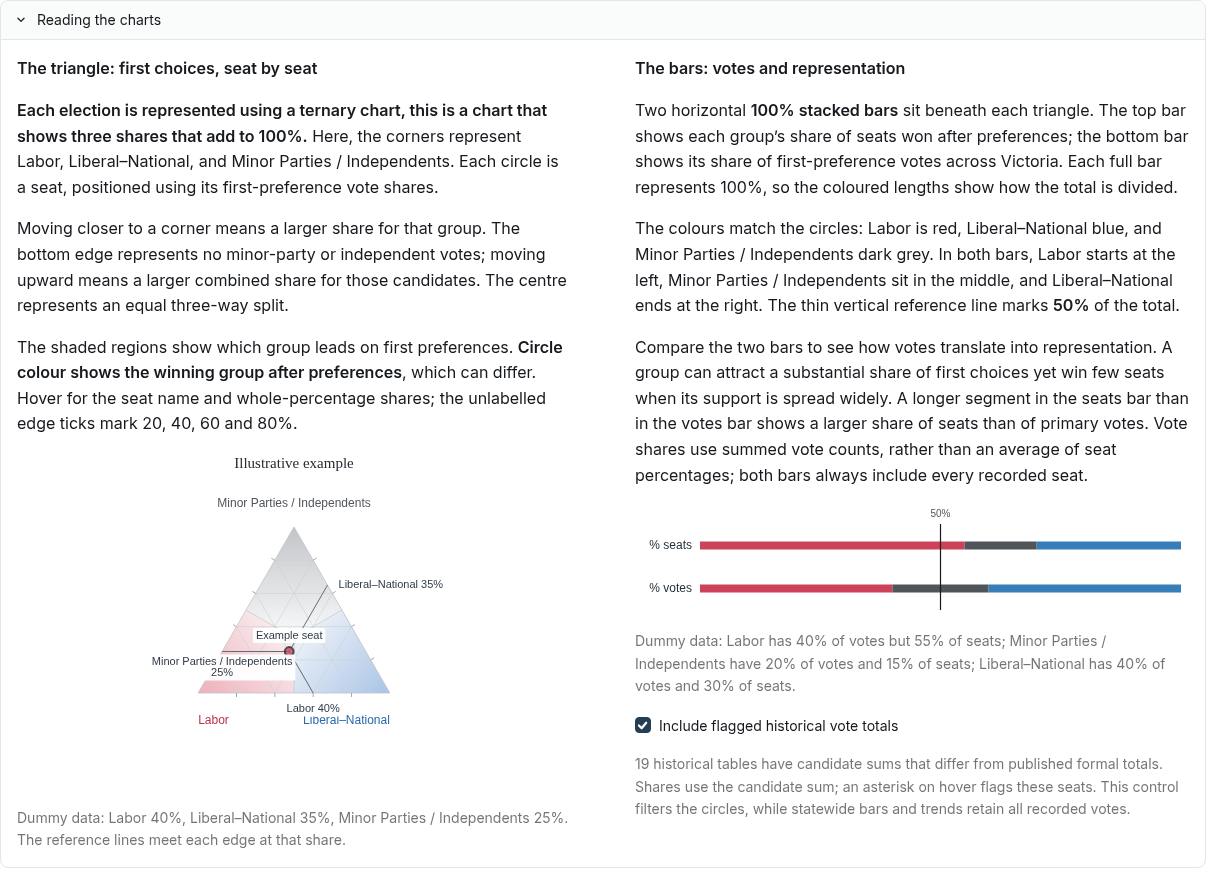
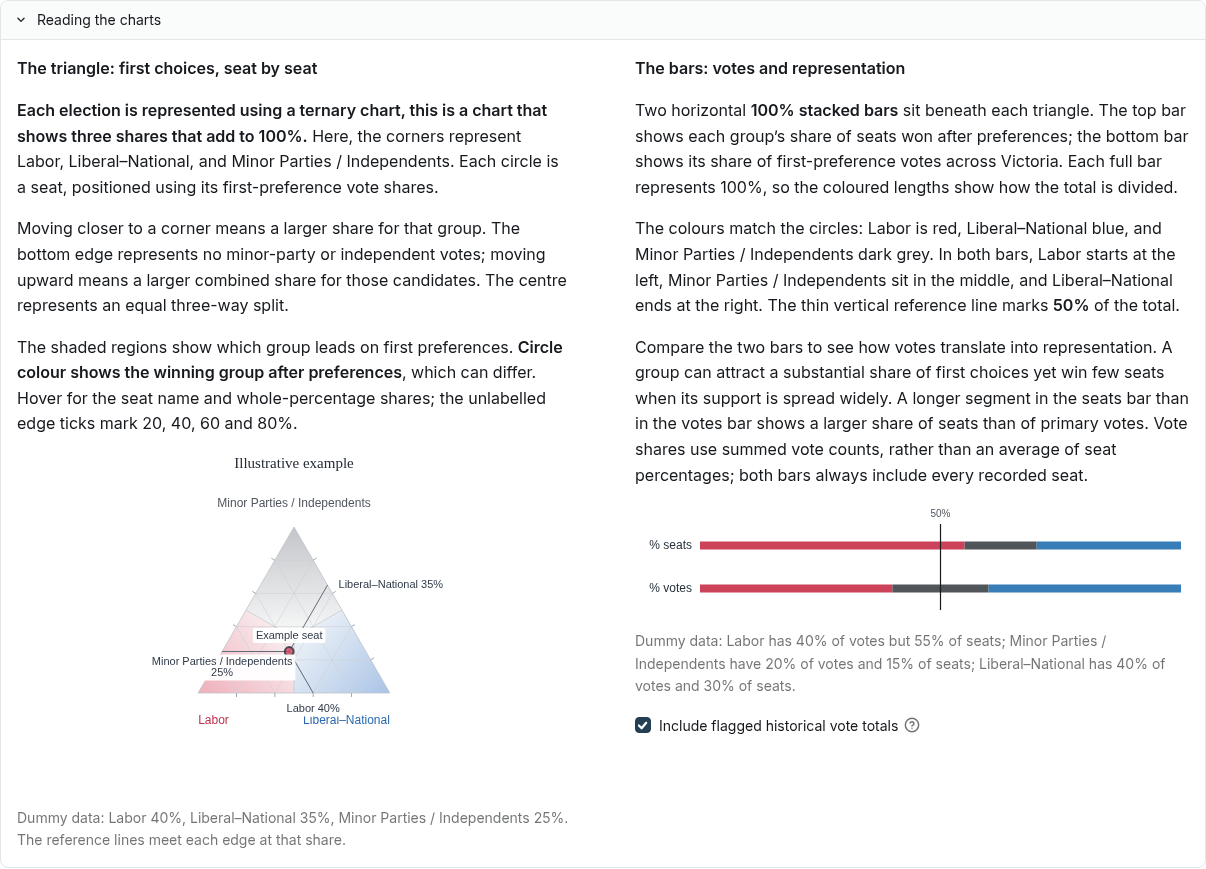
Align the electorate explorer with the gallery and consolidate data notes

Changed region(s): [[0.5216, 0.87, 0.9818, 0.9321]]

diff --git a/app.py b/app.py
@@ -64,8 +64,7 @@ with st.container(horizontal=True, horizontal_alignment="center"):
                     with st.container(width=600):
                         st.echarts_chart(charts.bar_legend_options(),height=110,theme=None,key="summary_key",alt="Dummy example: seats are Labor 55%, minor parties and independents 15%, Liberal–National 30%; votes are 40%, 20%, 40%. A vertical line marks 50%.")
                 st.caption("Dummy data: Labor has 40% of votes but 55% of seats; Minor Parties / Independents have 20% of votes and 15% of seats; Liberal–National has 40% of votes and 30% of seats.")
-                include = st.checkbox("Include flagged historical vote totals", value=True, key="include_flagged")
-                st.caption("19 historical tables have candidate sums that differ from published formal totals. Shares use the candidate sum; an asterisk on hover flags these seats. This control filters the circles, while statewide bars and trends retain all recorded votes.")
+                include = st.checkbox("Include flagged historical vote totals", value=True, key="include_flagged", help="Filter flagged seat circles. Statewide bars and the trend chart retain all recorded votes; see the data note at the bottom.")
 
         visible = first if include else first[first.reconciles]
         for chapter in chapters:
@@ -79,22 +78,19 @@ with st.container(horizontal=True, horizontal_alignment="center"):
                 with plot:
                     st_echarts(charts.ternary_options(visible, year, highlight=highlight, summary_df=first), height=f"{charts.CHART_HEIGHT}px", key=f"ternary-{year}")
 
-        with st.container(width=1100):
-            st.caption("The circles show seats, not a panel of the same voters. Boundaries, candidates and turnout change between elections, so a changing pattern can reflect both voter preferences and the choices available. The Minor Parties / Independents group brings together candidates with different political outlooks; it is not a single movement. Figures cover Legislative Assembly general elections, with the January 2023 Narracan supplementary poll included in 2022.")
+        # The grid shares the gallery's four tracks and gaps, so the explorer
+        # starts exactly at the first chart column and spans the remaining three.
+        explorer = st.grid(4, min_column_width=200, gap="xsmall", key="electorate_explorer")
+        with explorer.cell():
+            with st.container(gap="xsmall", key="electorate_explorer_context"):
+                st.subheader("Explore Your Electorate")
+                highlight = st.selectbox("Highlight an electorate", sorted(first.electorate.unique().tolist()), index=None, placeholder="All Victoria · choose an electorate", key="highlight_electorate")
+                st.markdown("See how the wider trend has played out locally. Choose a seat to update the line chart and its reference lines above; clear it to return to Victoria overall.")
+                if highlight:
+                    st.caption("● Filled: elected group after preferences. ○ Hollow: other groups. Each circle marks an election.")
+                else:
+                    st.caption("Each circle marks an election. Choose a seat to see its winning group marked with a filled circle.")
+        with explorer.cell(column_span=3):
+            st.echarts_chart(charts.primary_trend_options(first,highlight),height=charts.CHART_HEIGHT,theme=None,key="primary_trend",alt=f"First-preference vote shares for {highlight or 'Victoria overall'} across elections from 1982 to 2022. Labor, Liberal–National and minor parties and independents are shown separately.")
 
-        st.divider()
-        st.header("Explore Your Electorate")
-        highlight = st.selectbox("Highlight an electorate", sorted(first.electorate.unique().tolist()), index=None, placeholder="All Victoria · choose an electorate", key="highlight_electorate", width=360)
-        explanation, trend = st.columns([1, 3], gap="large")
-        with explanation:
-            st.markdown("The statewide story brings together many local contests. Has support for minor parties and independents grown in your electorate, or have the major parties held their ground?")
-            st.markdown("Choose a seat to follow its three first-preference shares through time. Its dot and reference lines will also appear in the triangles above, letting you place the local story within the wider pattern. Clear your selection to return to Victoria overall.")
-        with trend:
-            st.markdown(f"**{highlight or 'Victoria overall'} · first-preference vote, 1982–2022**")
-            st.echarts_chart(charts.primary_trend_options(first,highlight),height=380,theme=None,key="primary_trend",alt=f"First-preference vote shares for {highlight or 'Victoria overall'} across elections from 1982 to 2022. Labor, Liberal–National and minor parties and independents are shown separately.")
-            if highlight:
-                st.caption("● Filled circle: the group that won this seat after preferences. ○ Hollow circle: the other groups. Every circle marks an election; the winning group need not lead on first preferences.")
-            else:
-                st.caption("Each hollow circle marks an election. Statewide shares combine vote counts from all electorates; they are not an average of seat percentages. Select an electorate to see its winners marked with filled circles.")
-        with st.container(width=1100):
-            st.caption("Electorates are matched by name. A gap means no result is recorded under that name for that election; lines do not bridge missing results. Boundaries can change even when a name stays the same, so these are histories of named seats rather than a fixed set of voters.")
+        st.caption("**Data notes.** Legislative Assembly general elections, 1982–2022; 2022 includes Narracan’s January 2023 supplementary poll. Statewide vote shares use summed recorded candidate votes, rather than an average of seat percentages. In 19 historical tables, candidate sums differ from published formal totals: shares use the candidate sum, and an asterisk on hover flags the seat. The guide’s checkbox filters circles only; statewide bars and trends retain all recorded votes. Electorates are matched by name, with gaps for missing years. Boundaries, candidates and turnout change, so the charts do not follow a fixed group of voters. Minor Parties / Independents combines candidates with different political outlooks.")

diff --git a/capture.py b/capture.py
@@ -54,9 +54,18 @@ with sync_playwright() as playwright:
     frame.screenshot(path=str(ROOT/'screenshots/ternary-hover-story.png'))
     page.get_by_role('heading',name='Explore Your Electorate',exact=True).scroll_into_view_if_needed()
     page.get_by_role('heading',name='Explore Your Electorate',exact=True).evaluate("el=>el.scrollIntoView({block:'start'})")
-    assert page.get_by_role('combobox').bounding_box()['y'] < page.get_by_text('The statewide story brings together many local contests.',exact=False).bounding_box()['y']
+    assert page.get_by_role('combobox').bounding_box()['y'] < page.get_by_text('See how the wider trend has played out locally.',exact=False).bounding_box()['y']
+    explorer=page.locator('.st-key-electorate_explorer')
+    context=page.locator('.st-key-electorate_explorer_context').bounding_box()
+    first_chart=page.locator('iframe').nth(9).bounding_box()
+    line_chart=page.get_by_test_id('stEChartsChart').bounding_box()
+    assert abs(context['width']-page.get_by_role('heading',level=3).nth(3).locator('xpath=ancestor::div[@data-testid="stColumn"][1]').bounding_box()['width']) < 1
+    assert abs(line_chart['x']-first_chart['x']) < 1, 'Explorer must align with the gallery chart columns'
+    assert abs(explorer.bounding_box()['height']-380) < 2, 'Explorer must be one chart row tall'
+    assert page.get_by_text('Data notes.',exact=False).bounding_box()['y'] > line_chart['y']+line_chart['height']
     page.wait_for_timeout(500)
     page.screenshot(path=str(ROOT/'screenshots/explore-statewide.png'))
+    explorer.screenshot(path=str(ROOT/'screenshots/explore-row.png'))
     # A selected seat keeps its guides after the pointer leaves the chart.
     selector=page.get_by_role('combobox')
     selector.click()
@@ -69,7 +78,7 @@ with sync_playwright() as playwright:
     page.screenshot(path=str(ROOT/'screenshots/explore-northcote.png'))
     canvas=page.get_by_test_id('stEChartsChart').locator('canvas').first
     trend_box=canvas.bounding_box()
-    page.mouse.move(trend_box['x']+trend_box['width']-166,trend_box['y']+20+(trend_box['height']-64)*(1-seat.labor_pct/100))
+    page.mouse.move(trend_box['x']+trend_box['width']-166,trend_box['y']+40+(trend_box['height']-84)*(1-seat.labor_pct/100))
     page.wait_for_timeout(400)
     assert page.get_by_text('Elected: Labor',exact=False).is_visible()
     assert page.get_by_text('Labor: 41%',exact=False).is_visible()

diff --git a/charts.py b/charts.py
@@ -176,8 +176,9 @@ def primary_trend_options(df, electorate=None):
     tooltip = '<strong>{@Year}</strong><br/>Labor: {@Labor label}<br/>Liberal–National: {@Liberal–National label}<br/>Minor Parties / Independents: {@Minor Parties / Independents label}<br/>{@Outcome}'
     return dict(
         animation=False,backgroundColor='#ffffff',textStyle=dict(fontFamily='Inter, sans-serif'),
+        title=dict(text=f'{electorate or "Victoria overall"} · first-preference vote, 1982–2022',left=48,top=4,padding=0,textStyle=dict(color='#252b33',fontSize=14,fontWeight=500)),
         dataset=dict(source=primary_trend_data(df,electorate)),
-        grid=dict(left=48,right=165,top=20,bottom=44),
+        grid=dict(left=48,right=165,top=40,bottom=44),
         xAxis=dict(type='time',min='1982-01-01',max='2022-01-01',splitNumber=8,axisLabel=dict(formatter='{yyyy}',color='#51565e',showMinLabel=True,showMaxLabel=True,hideOverlap=True),axisLine=dict(lineStyle=dict(color='#c7cbd0')),axisTick=dict(show=False),splitLine=dict(show=False)),
         yAxis=dict(type='value',min=0,max=100,interval=20,axisLabel=dict(formatter='{value}%',color='#51565e'),axisLine=dict(show=False),axisTick=dict(show=False),splitLine=dict(lineStyle=dict(color='#e9ecef'))),
         tooltip=dict(trigger='axis',confine=True,formatter=tooltip,axisPointer=dict(type='line',lineStyle=dict(color='#aeb5bd',type='dashed'))),

diff --git a/test_app_reload.py b/test_app_reload.py
@@ -25,7 +25,7 @@ class LiveUpdateChecks(unittest.TestCase):
         with patch.dict(sys.modules, {'charts': stale}):
             app = AppTest.from_file(str(ROOT / 'app.py'), default_timeout=30).run()
             self.assertFalse(app.exception, [e.message for e in app.exception])
-            self.assertEqual(len(app.subheader), 4)
+            self.assertEqual(len(app.subheader), 5)
             self.assertFalse(app.tabs)
             self.assertIs(sys.modules['charts'], stale)
 
@@ -42,7 +42,7 @@ class LiveUpdateChecks(unittest.TestCase):
         self.assertIn('100% stacked bars', markdown)
         self.assertIn('summed vote counts', markdown)
         self.assertFalse(app.info)
-        self.assertEqual(app.header[0].value, 'Explore Your Electorate')
+        self.assertEqual(app.subheader[-1].value, 'Explore Your Electorate')
         self.assertNotIn('Sources:', markdown)
 
     def test_electorate_dropdown_persists_across_elections(self):

diff --git a/README.md b/README.md
@@ -34,7 +34,7 @@ The skill is installed in this working checkout. Its environment-specific symlin
 - Light grey rules and four unlabelled ticks per edge mark 20, 40, 60 and 80%. The triangle is equilateral at every component width.
 - Three charts per row, with a context column on the left, across four historical periods. Equal 1:1:1:1 columns inside a 1,600px page bound preserve the previous triangle size at laptop widths. Years are centred above each plot; axis labels use group names without a 100% prefix. Each year has its own title band, separated from the top axis label without shrinking the triangle. Narrower screens stack the columns. The app uses a white theme.
 
-The page contains the gallery, researched explanations, an expandable reading guide and the final electorate explorer. The windsock map, data/methods tabs and three-candidate controls have been removed from the app. Earlier research files and chart helpers remain in the repository as working material.
+The page contains the gallery, researched explanations, an expandable reading guide and the final electorate explorer, followed by one consolidated data note. The windsock map, data/methods tabs and three-candidate controls have been removed from the app. Earlier research files and chart helpers remain in the repository as working material.
 
 ## Historical explanations
 
@@ -52,6 +52,8 @@ The reading guide explains the three shares, positions and gridlines in three pa
 ## Explore Your Electorate
 
 Three lines show first-preference shares for each election. Victoria overall is the default: group vote counts are summed before calculating percentages. Selecting an electorate switches to its recorded shares and highlights its points in the historical triangles. Elections use proportional time spacing, with a circle at each observed election and gaps for missing seat-years.
+
+The explorer sits directly below the gallery in a matching four-track grid: its heading, dropdown and explanation occupy the left track, and the 380px-high line chart spans the other three. The chart title is inside the plot component, so the whole explorer stays one chart row tall. One data note at the bottom covers coverage, vote weighting, flagged historical totals and changing seat boundaries.
 
 In a selected seat, **filled circles** identify the group that won after preferences; the other groups have **hollow circles**. Circle size and party colours stay consistent. Tooltips show whole-percentage shares and the actual winning party. Statewide markers remain hollow because this view has no individual electorate winner. See [the design research](research/chart-design.md) for the guidance informing these choices.
 
